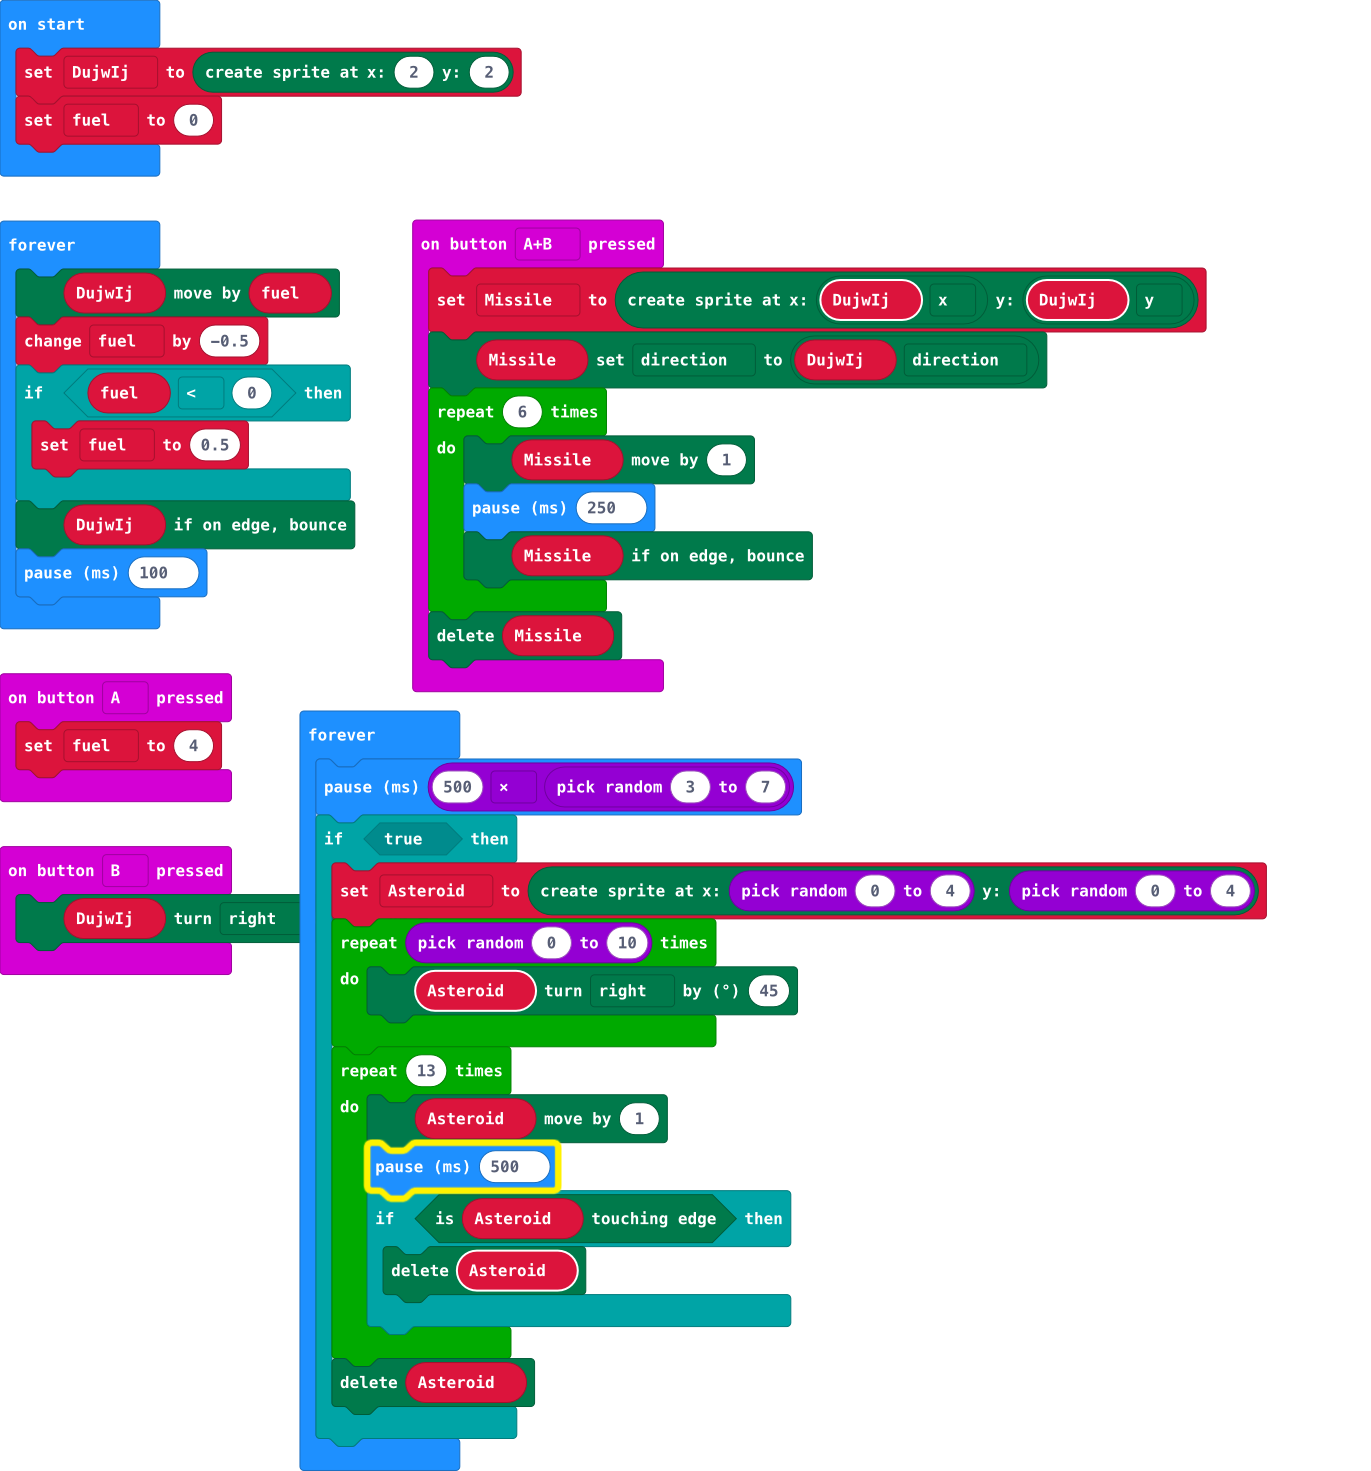
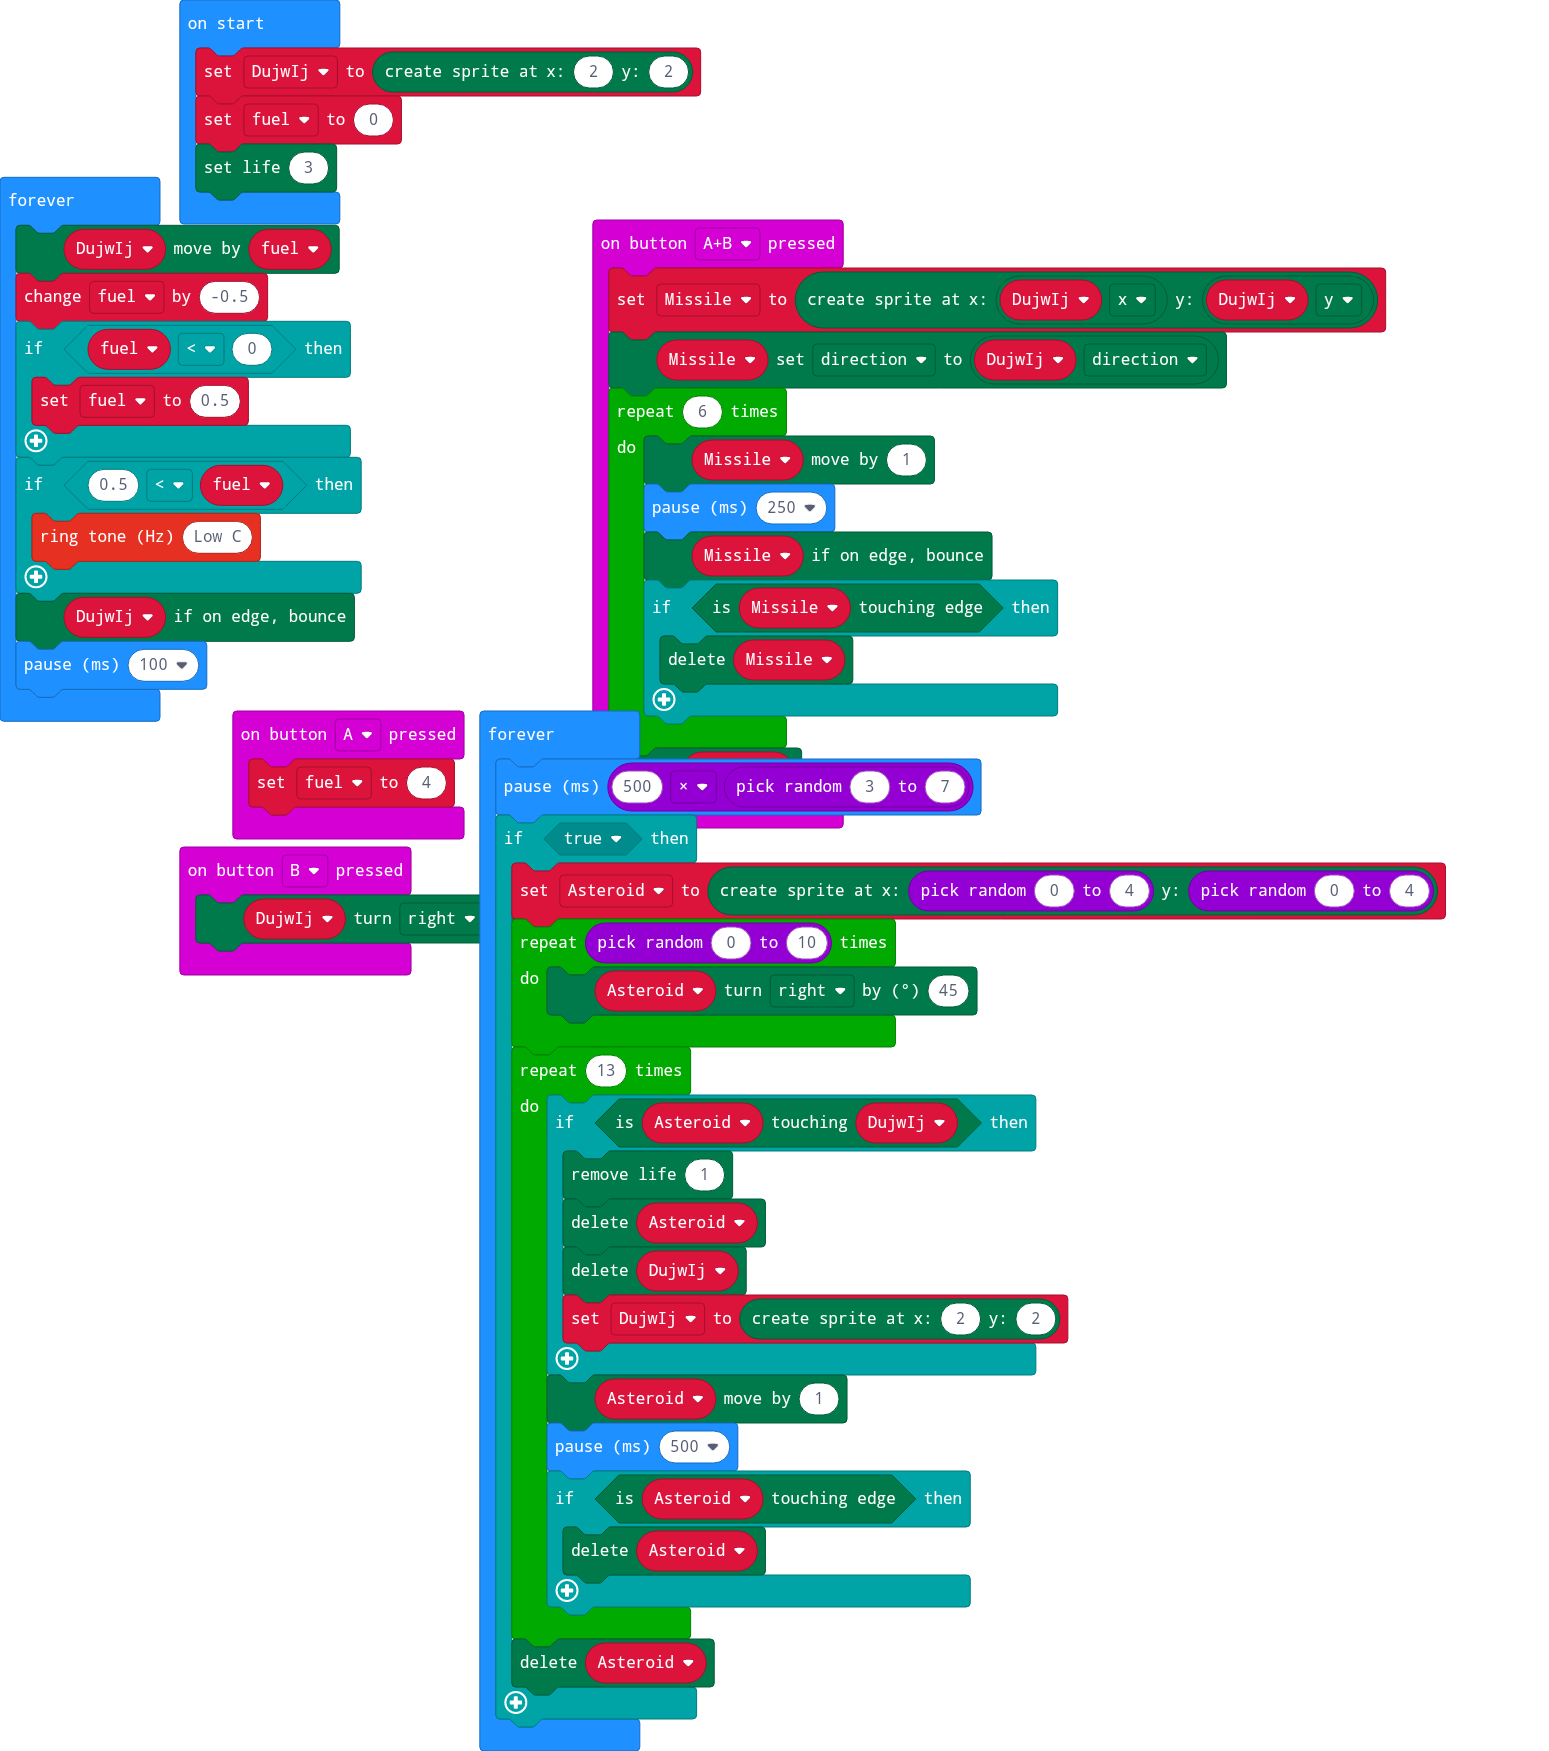
Update main.blocks, main.ts

diff --git a/main.ts b/main.ts
@@ -8,6 +8,9 @@ input.onButtonPressed(Button.AB, function () {
         Missile.move(1)
         basic.pause(250)
         Missile.ifOnEdgeBounce()
+        if (Missile.isTouchingEdge()) {
+            Missile.delete()
+        }
     }
     Missile.delete()
 })
@@ -20,11 +23,15 @@ let fuel = 0
 let DujwIj: game.LedSprite = null
 DujwIj = game.createSprite(2, 2)
 fuel = 0
+game.setLife(3)
 basic.forever(function () {
     DujwIj.move(fuel)
     fuel += -0.5
     if (fuel < 0) {
         fuel = 0.5
+    }
+    if (0.5 < fuel) {
+        music.ringTone(131)
     }
     DujwIj.ifOnEdgeBounce()
     basic.pause(100)
@@ -37,6 +44,12 @@ basic.forever(function () {
             Asteroid.turn(Direction.Right, 45)
         }
         for (let index = 0; index < 13; index++) {
+            if (Asteroid.isTouching(DujwIj)) {
+                game.removeLife(1)
+                Asteroid.delete()
+                DujwIj.delete()
+                DujwIj = game.createSprite(2, 2)
+            }
             Asteroid.move(1)
             basic.pause(500)
             if (Asteroid.isTouchingEdge()) {
